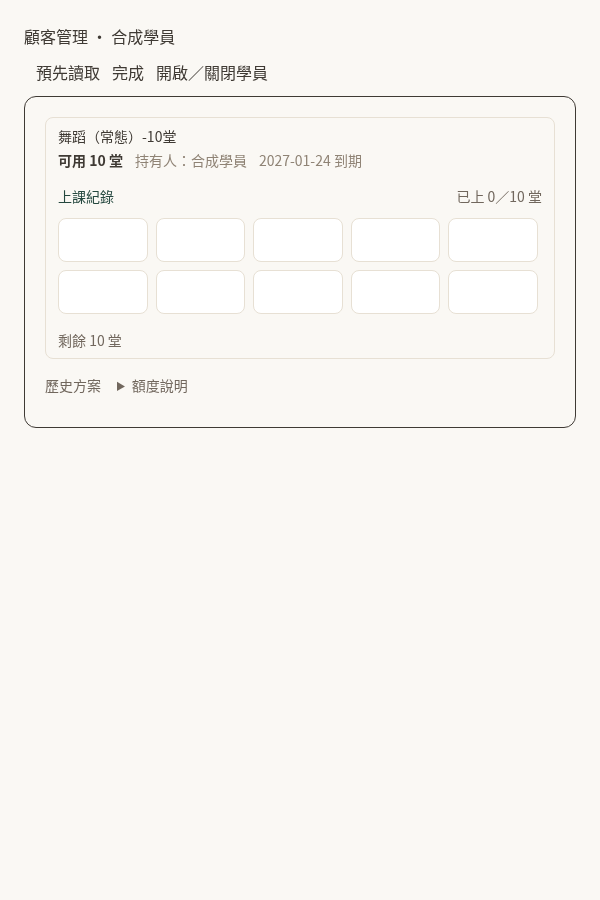
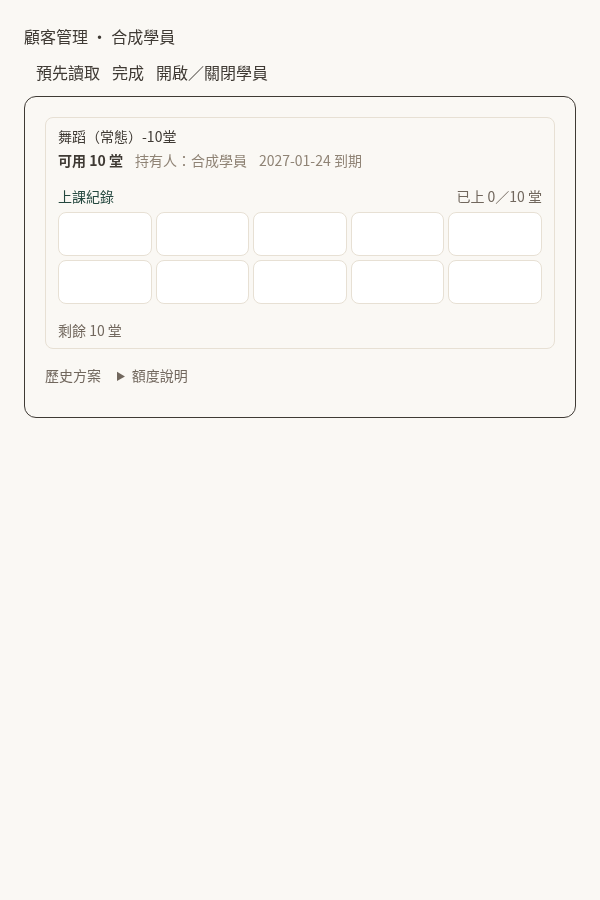
style(course): tighten progress grid spacing and center dates

Changed region(s): [[0.09, 0.2489, 0.9, 0.3422], [0.06, 0.3422, 0.33, 0.4356]]

diff --git a/src/components/admin/lesson-progress-grid.module.css b/src/components/admin/lesson-progress-grid.module.css
@@ -1,6 +1,7 @@
-.compact { container-type: inline-size; }
-.compactGrid { grid-template-columns: repeat(var(--lesson-narrow-columns), minmax(0, 1fr)); }
-.compactGrid > li > span, .compactGrid > li > button { min-height: 44px; }
+.compact { container-type: inline-size; display: flex; flex-direction: column; gap: 6px; }
+.compact > * { margin-block: 0; }
+.compactGrid { grid-template-columns: repeat(var(--lesson-narrow-columns), minmax(0, 1fr)); gap: 4px; padding-right: 0; }
+.compactGrid > li > span, .compactGrid > li > button { min-height: 44px; padding-inline: 4px; text-align: center; align-items: center; justify-content: center; }
 @container (min-width: 640px) {
   .compactGrid { grid-template-columns: repeat(var(--lesson-wide-columns), minmax(0, 1fr)); }
 }

diff --git a/docs/qa/course-plan-grid-entrypoints-20261110.md b/docs/qa/course-plan-grid-entrypoints-20261110.md
@@ -8,14 +8,14 @@
 - 後台音樂方案原先走 Server Action，與其他操作排隊，只有運動使用獨立 card-read。現在兩者都使用原有授權服務的 GET；日期格亦透過唯讀 card-progress-read，維持 wallet/customer/booking 權限與門市／對象核對。課卡詳情及交易後端規則不變。
 - 搜尋框持續聚焦原先會一直擋住閒置預讀。只在顧客列表允許結果穩定後仍保留搜尋焦點時預讀；編輯／pending／視窗開啟、離線及隱藏頁仍暫停。一般日曆與其他入口預設規則不變。
 - CourseCardBrowser 首個 render 直接採用有效預讀結果，避免快取已備妥仍先等 effect 計時器。15 秒、scope 隔離及更新失效不變。
-- 後台日期格依實際容器寬度排版：至少 640px 時每行最多 10 格，較窄時最多 5 格；高度 44px。前台維持 8 堂四格兩行、10 堂五格兩行及 48px 高度。
+- 後台日期格依實際容器寬度排版：至少 640px 時每行最多 10 格，較窄時最多 5 格；高度 44px；依使用者追加指示，格距縮為 4px、標題與格子的區塊間距 6px，日期水平及垂直置中，不縮字級。前台維持 8 堂四格兩行、10 堂五格兩行及 48px 高度。
 
 ## 查核與驗證
 
 - 正式 Supabase 唯讀核對截圖學員：本店單一卡片為 SESSION、非期初來源、GRANT=10、remaining=10、ATTENDED=0，應為 10 個空白格。未修改任何正式資料。
 - 本機對應 CI targeted workflow 加受影響測試：216 檔、3,042 項通過。另含實際 CoursePortalClient 的 plans 頁（無同電話群組）、唯讀模式、8/10 格及未上課留白；獨立 HTTP transport／route 保留授權失敗；搜尋焦點預讀及既有日曆暫停規則；完整型別、ESLint、diff check 通過。
 - 可重跑 scripts/qa/course-plan-entrypoint-grids-browser.mjs（PLAYWRIGHT_PATH 指向已安裝 Playwright）。使用實際 CoursePortalClient、CourseCardBrowser、CourseCardProgress、共用快取及完整 globals／portal CSS；合成資料，所有伺服器 action 禁止，HTTP 讀取 mock。預讀後開窗／重開只出現原先兩個讀取（cards/progress），不重送；沒有宣稱正式登入後首讀零延遲或改善秒數。
-- 前台 390×844、360×800、768×1024，後台 1366×900、1024×768、768×1024、600×900。10 格在後台寬容器一行、484px 容器兩行；前台 10 格五欄／8 格四欄，未使用格留白，無整頁水平溢出，無瀏覽器執行錯誤。artifacts/course-plan-grid-entrypoints-20261110 保存代表截圖及完整結果。模擬尺寸不代表真機。
+- 前台 390×844、360×800、768×1024，後台 1366×900、1024×768、768×1024、600×900。10 格在後台寬容器一行、484px 容器兩行；前台 10 格五欄／8 格四欄，未使用格留白，無整頁水平溢出，無瀏覽器執行錯誤。另驗前台／後台各 1 個實際日期的文字中心與儲存格中心差異小於 1px。artifacts/course-plan-grid-entrypoints-20261110 保存代表截圖及完整結果。模擬尺寸不代表真機。
 - 未取得使用者本機瀏覽器連線或正式登入測試憑證；正式端到端登入與延遲未實測。此次完整元件預覽比前次僅共用 grid fixture 多涵蓋實際方案入口，但仍不將合成預覽混稱正式業務驗收。
 
 無 migration、無通知啟用、無正式出席／預約／金流寫入。候選分支僅停用自身自動 Vercel Preview（既有專用分支隔離不適用此新分支），不改 main 或隔離守門規則；正式發布狀態以 PR／部署證據更新為準。
